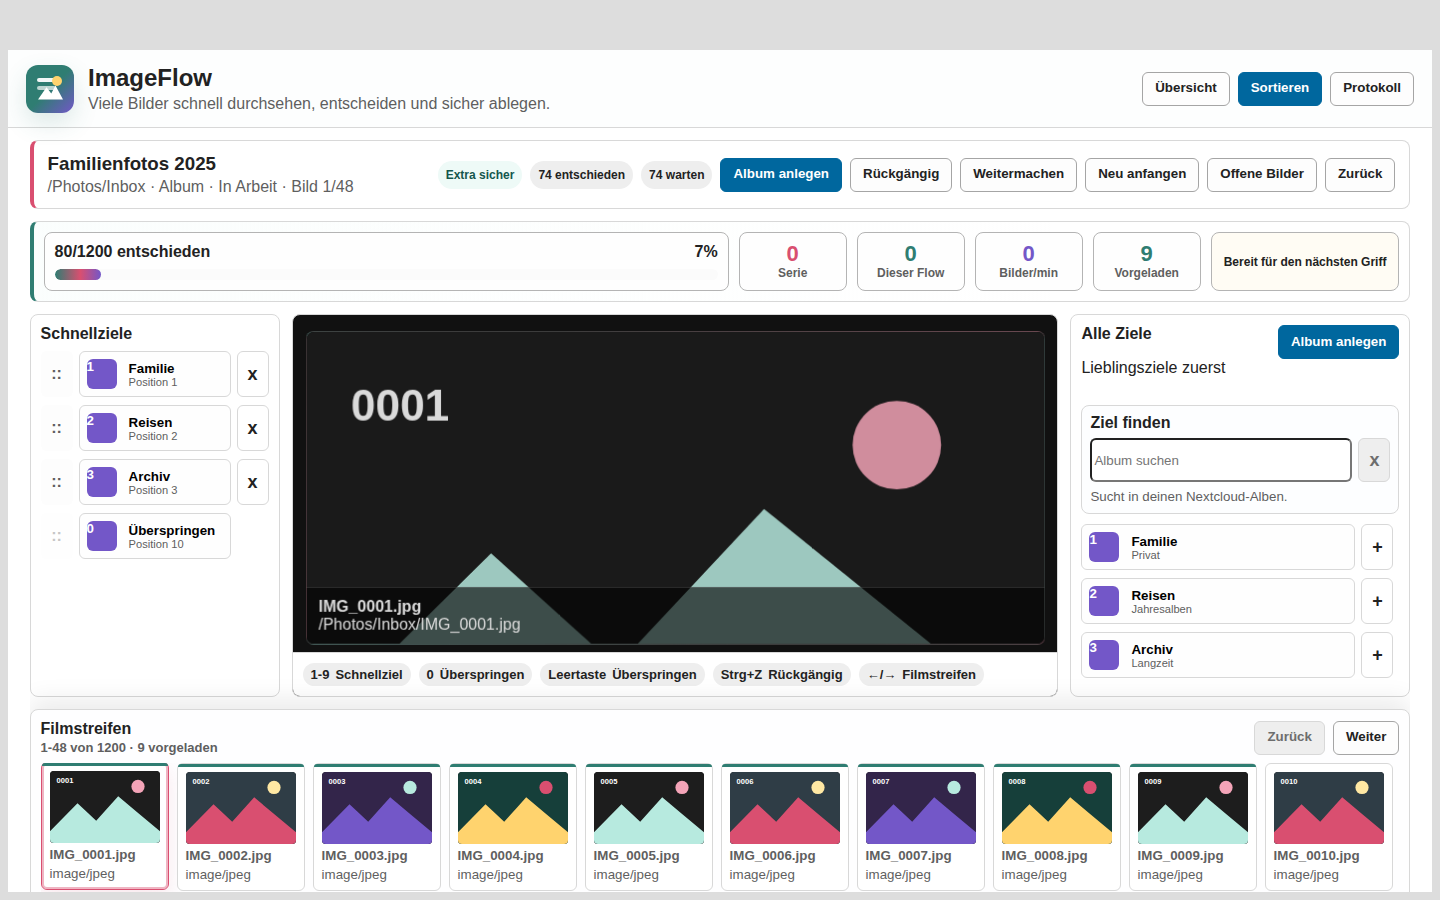
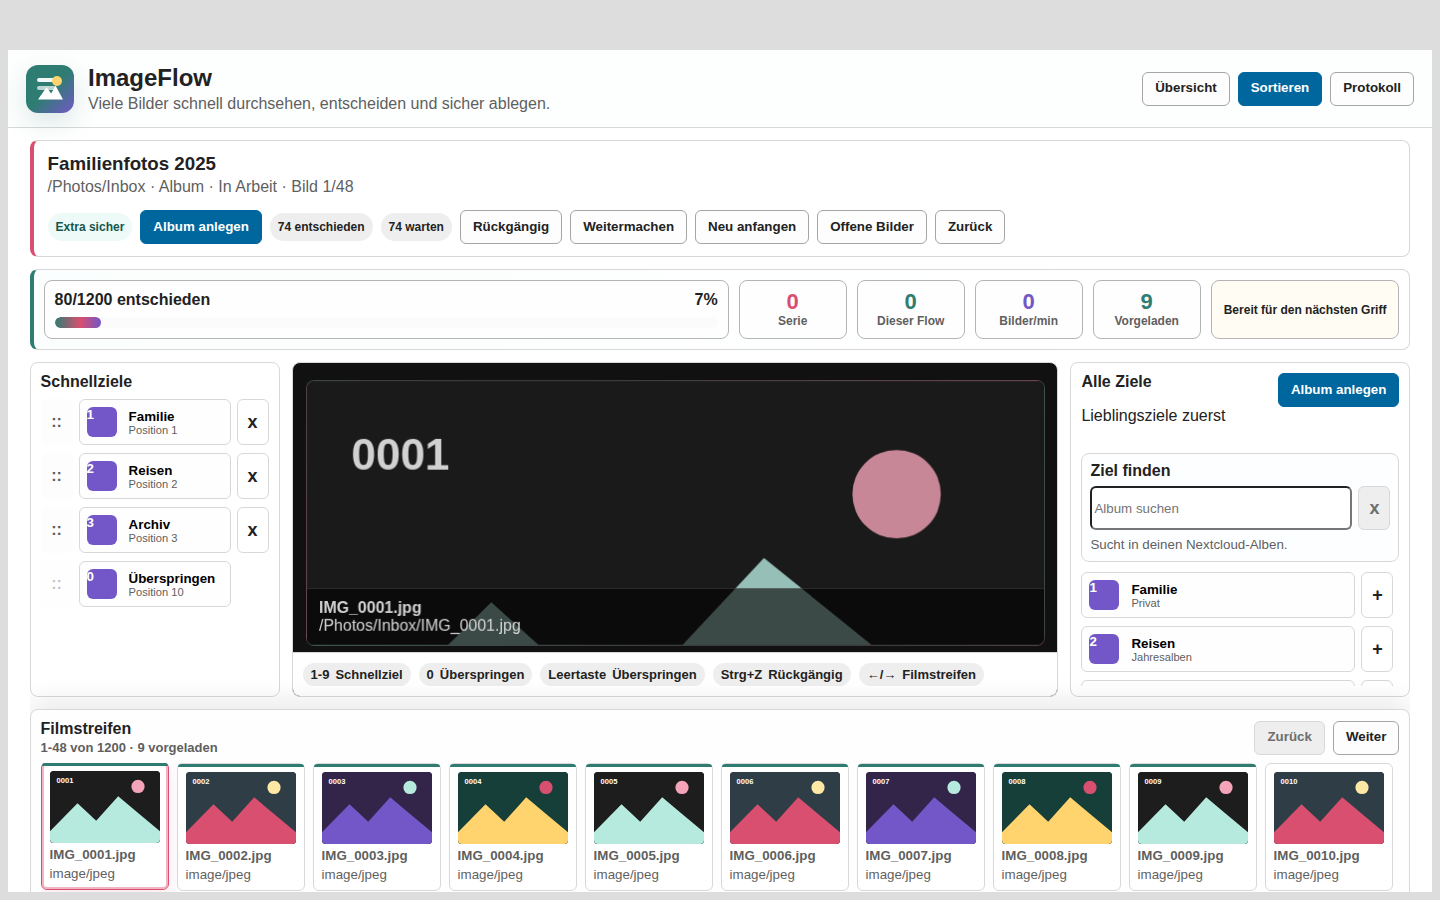
refine responsive flow header

diff --git a/imageflow/js/imageflow-main.js b/imageflow/js/imageflow-main.js
@@ -19,6 +19,7 @@
   let feedbackTimer = null;
   let imagePageLoadPromise = null;
   let targetSearchTimer = null;
+  let scrollToTopOnRender = false;
 
   const state = {
     page: root.dataset.page || "jobs",
@@ -1001,6 +1002,10 @@
     `;
     bindActions();
     syncImageBuffer();
+    if (scrollToTopOnRender) {
+      mount.scrollTop = 0;
+      scrollToTopOnRender = false;
+    }
   }
 
   function renderTopbar() {
@@ -2522,6 +2527,7 @@
 
   async function openSort(jobId, startMode) {
     state.page = "sort";
+    scrollToTopOnRender = true;
     state.jobId = jobId;
     state.imageIndex = 0;
     state.sortState = null;

diff --git a/imageflow/css/imageflow-main.css b/imageflow/css/imageflow-main.css
@@ -599,7 +599,7 @@
 
 .imageflow-job-head {
   display: grid;
-  grid-template-columns: minmax(0, 1fr) auto;
+  grid-template-columns: minmax(280px, 1fr) minmax(0, 2fr);
   gap: 14px;
   align-items: center;
   padding: 12px 14px;
@@ -1524,11 +1524,13 @@
   }
 }
 
-@container (max-width: 1100px) {
+@container (max-width: 1500px) {
   .imageflow-job-head {
     grid-template-columns: 1fr;
   }
+}
 
+@container (max-width: 1100px) {
   .imageflow-gamebar {
     display: flex;
     flex-wrap: nowrap;
